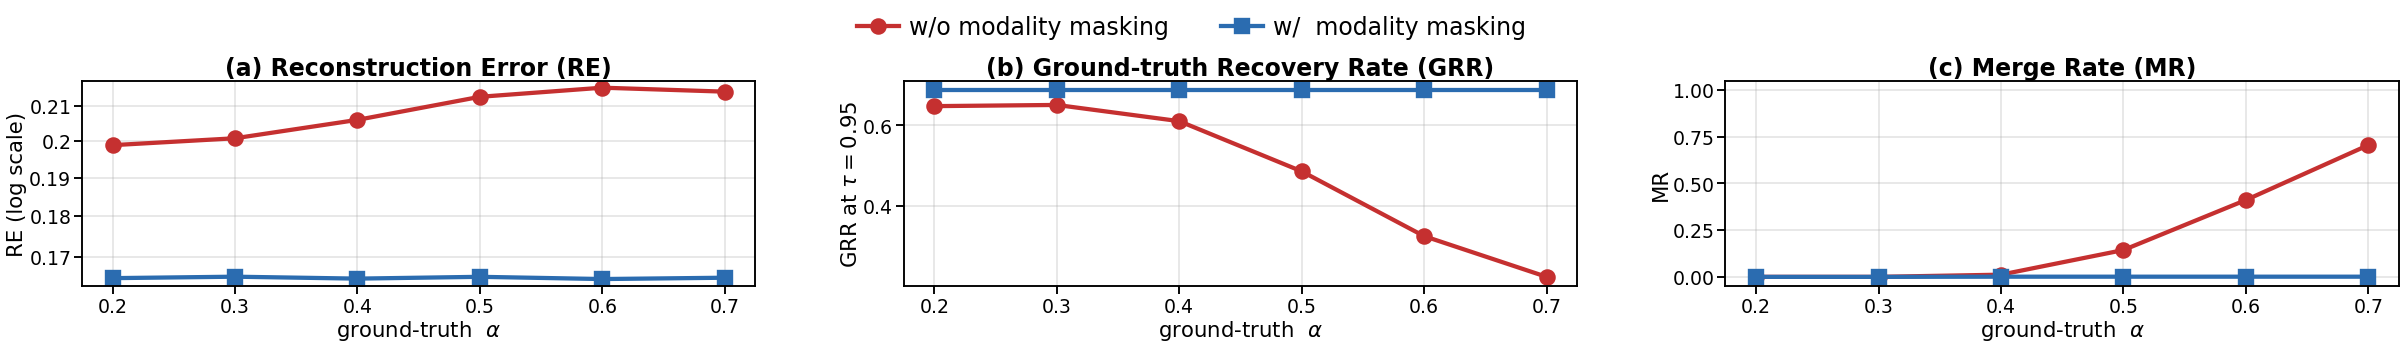
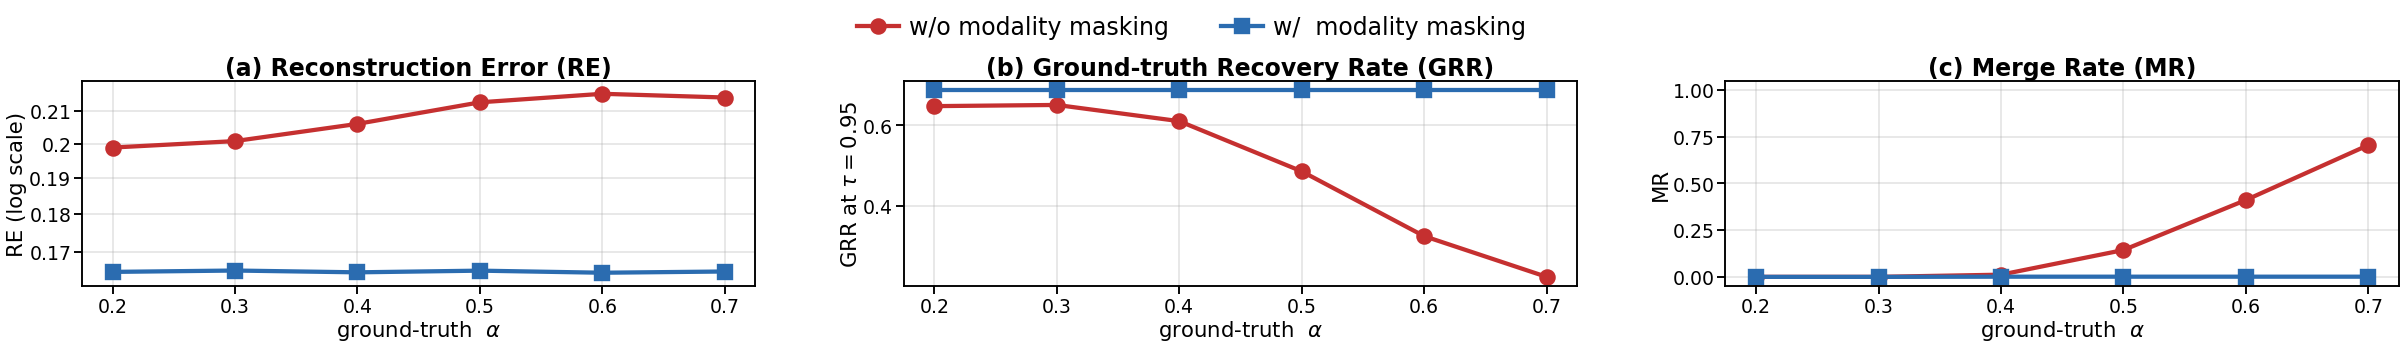
fig1: RE margin 2%

diff --git a/scripts/plot_fig1_three_panels.py b/scripts/plot_fig1_three_panels.py
@@ -72,7 +72,7 @@ def make_fig1(json_path: str, out_path: str, alphas_target=(0.2, 0.3, 0.4, 0.5, 
             ax.set_yscale("log")
             y_all = [v for v in y_no + y_yes if v is not None]
             lo, hi = min(y_all), max(y_all)
-            ax.set_ylim(lo * 0.99, hi * 1.01)
+            ax.set_ylim(lo * 0.98, hi * 1.02)
             y_ticks = [0.17, 0.18, 0.19, 0.20, 0.21, 0.22]
             ax.yaxis.set_major_locator(FixedLocator(y_ticks))
             ax.yaxis.set_minor_locator(FixedLocator([]))
